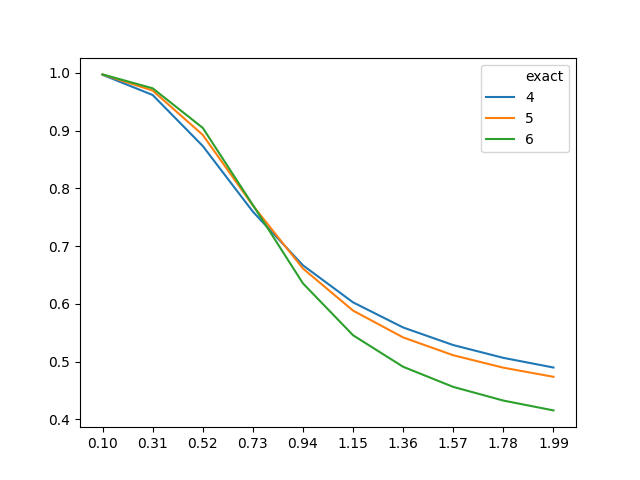
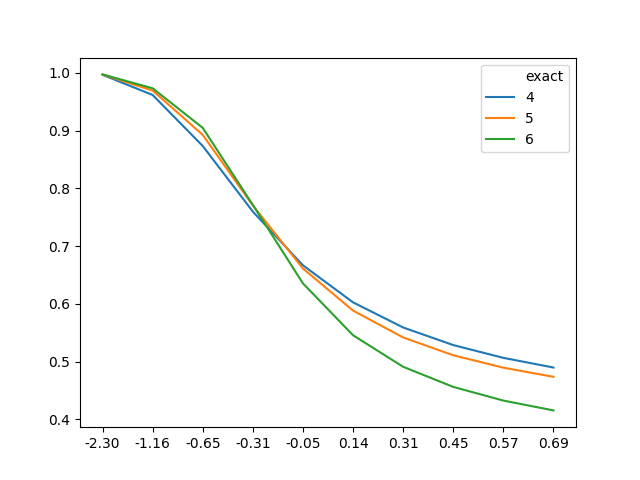
plotter for exact

diff --git a/ising/plotter/singlelcu.py b/ising/plotter/singlelcu.py
@@ -2,6 +2,7 @@ from typing import TypeAlias
 
 import argparse
 import math
+import numpy as np
 
 import seaborn as sns
 import matplotlib.pyplot as plt
@@ -28,8 +29,8 @@ def get_length(all_results: dict[str, Result]) -> int:
     raise ValueError("Empty Result provided")
 
 
-def log_label_maker(values: list[str]) -> list[str]:
-    return ["{:.2f}".format(math.trunc(float(x) * 100) / 100) for x in values]
+def log_label_maker(values: list[float]) -> list[str]:
+    return ["{:.2f}".format(math.trunc(np.log(float(x)) * 100) / 100) for x in values]
 
 
 def plot_one(results: Result, color: int, **kwargs):
@@ -38,6 +39,7 @@ def plot_one(results: Result, color: int, **kwargs):
     for num_qubit, h_wise_results in results.items():
         # h_wise_results: h -> magn
         y_values = list(h_wise_results.values())
+        x_values = log_label_maker(list(h_wise_results.keys()))
         if style != "L":
             ax = sns.scatterplot(
                 x=x_values,
